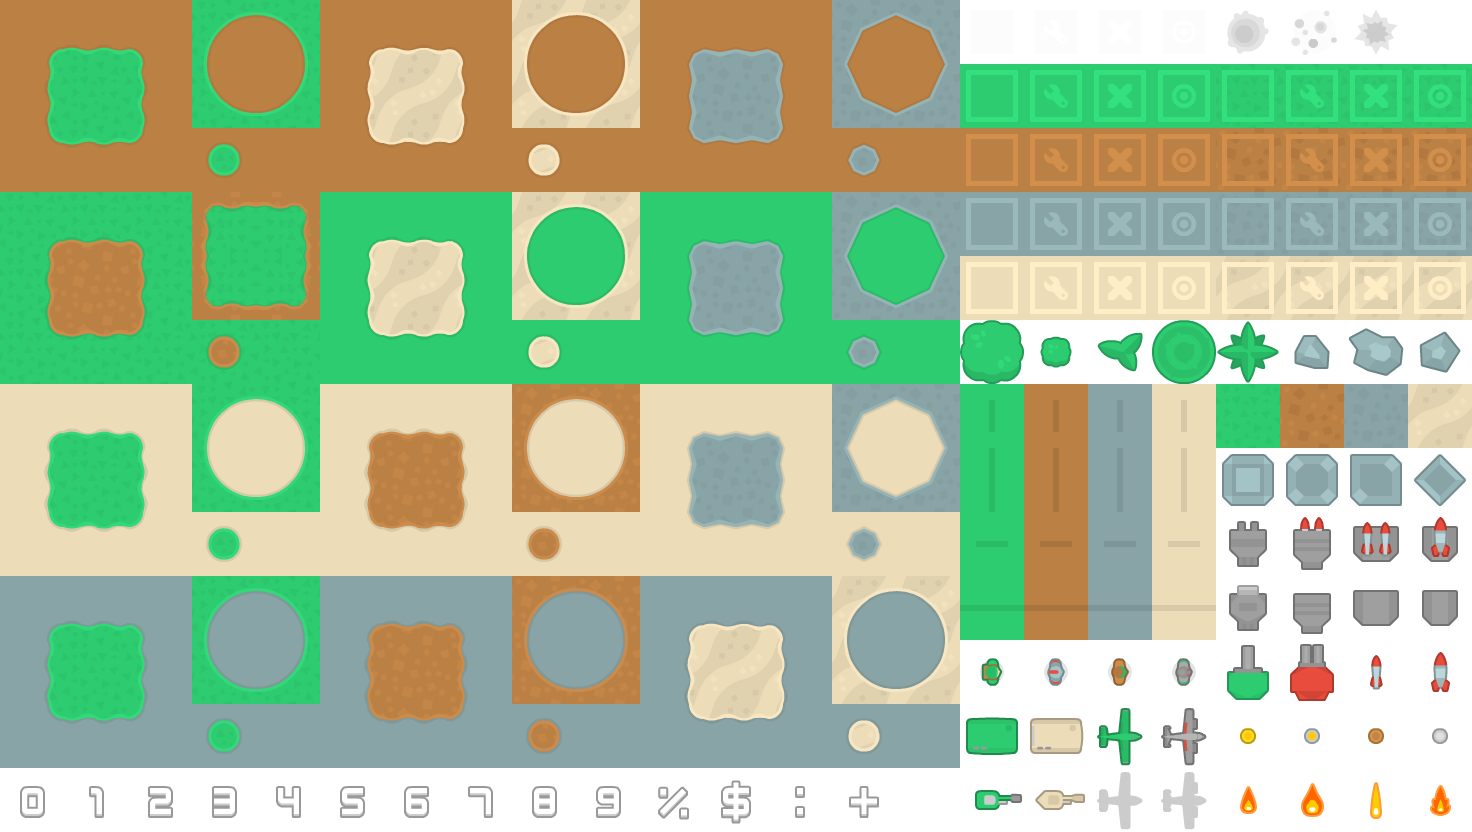
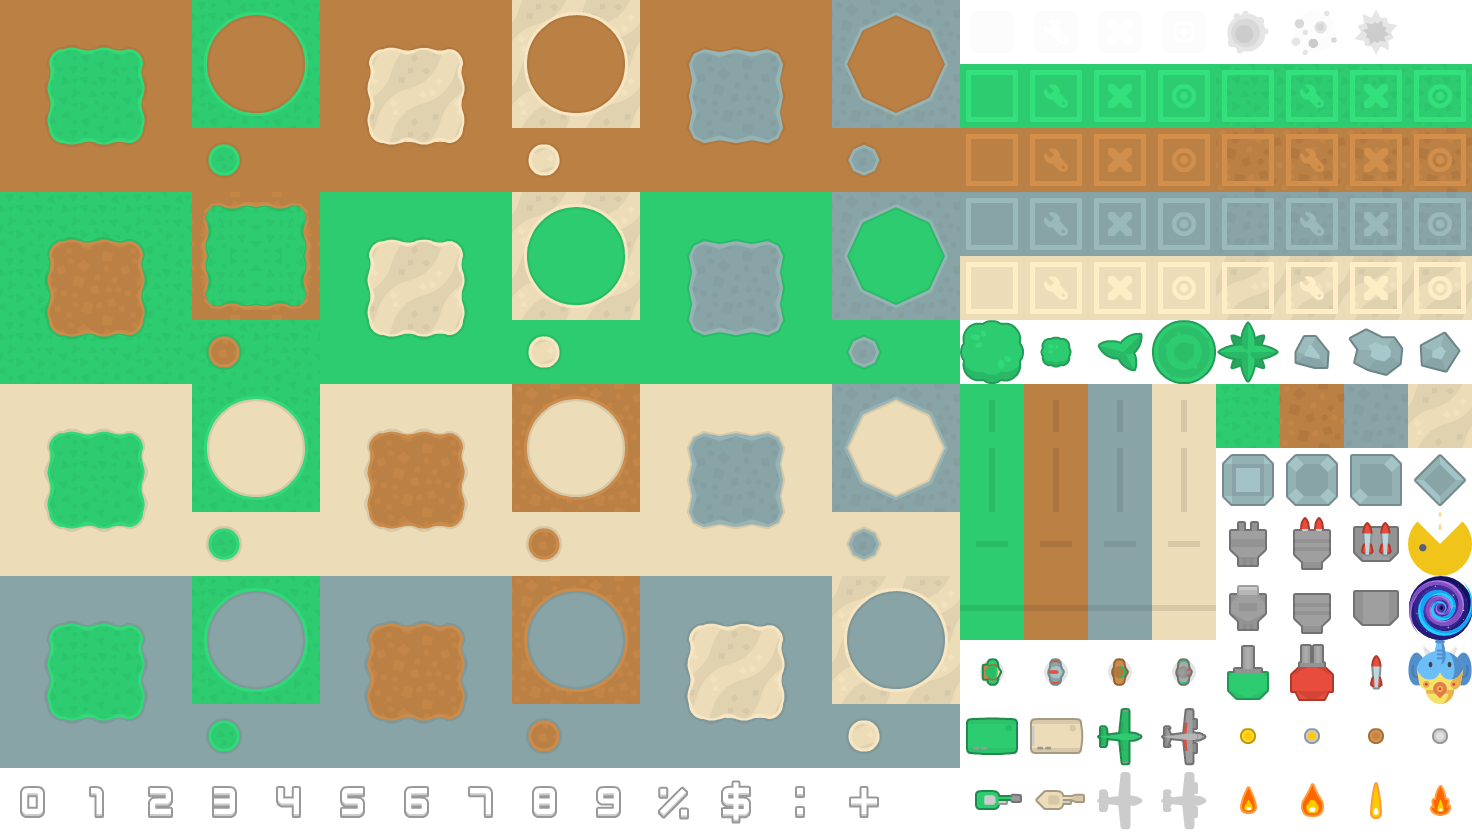
upgrade tower

Changed region(s): [[0.9375, 0.625, 1.0, 0.8438]]

diff --git a/src/mrmathami/thegame/drawer/MachineGunTowerDrawer.java b/src/mrmathami/thegame/drawer/MachineGunTowerDrawer.java
@@ -14,12 +14,37 @@ import javax.annotation.Nonnull;
 public final class MachineGunTowerDrawer implements EntityDrawer {
 	@Override
 	public void draw(long tickCount, @Nonnull GraphicsContext graphicsContext, @Nonnull GameEntity entity, double screenPosX, double screenPosY, double screenWidth, double screenHeight, double zoom) {
-		Image img = GameDrawer.getSheetImage();
-		int maxTileWidth = (int)Math.round(img.getWidth()/ Config.TILE_SIZE);
-		int maxTileHeight = (int)Math.round(img.getHeight()/Config.TILE_SIZE);
-		PixelReader reader = img.getPixelReader();
+		Image imgSheet = GameDrawer.getSheetImage();
+		Image imgRank = GameDrawer.getRankImage();
+		int maxTileWidth = (int)Math.round(imgSheet.getWidth()/ Config.TILE_SIZE);
+		int maxTileHeight = (int)Math.round(imgSheet.getHeight()/Config.TILE_SIZE);
+		PixelReader reader = imgSheet.getPixelReader();
 
-		WritableImage newImage = new WritableImage(reader, (((MachineGunTower)entity).getGID() - 1) % maxTileWidth * (int)(Config.TILE_SIZE), Math.round((((MachineGunTower)entity).getGID() - 1) / maxTileWidth) * (int)(Config.TILE_SIZE), (int)(Config.TILE_SIZE), (int)(Config.TILE_SIZE));
-		((MachineGunTower)entity).rotate(graphicsContext, newImage, screenPosX, screenPosY, ((MachineGunTower)entity).getAngle());
+		WritableImage towerImage = new WritableImage(reader, (((MachineGunTower)entity).getGID() - 1) % maxTileWidth * (int)(Config.TILE_SIZE), Math.round((((MachineGunTower)entity).getGID() - 1) / maxTileWidth) * (int)(Config.TILE_SIZE), (int)(Config.TILE_SIZE), (int)(Config.TILE_SIZE));
+		((MachineGunTower)entity).rotate(graphicsContext, towerImage, screenPosX, screenPosY, ((MachineGunTower)entity).getAngle());
+
+
+		maxTileWidth = (int)Math.round(imgRank.getWidth()/ Config.TILE_SIZE);
+		maxTileHeight = (int)Math.round(imgRank.getHeight()/Config.TILE_SIZE);
+		reader = imgRank.getPixelReader();
+		WritableImage rankImage;
+		switch (((MachineGunTower)entity).getLevel())
+		{
+			case 0:
+				rankImage = new WritableImage(reader, (Config.TOWER_RANK_1_GID - 1) % maxTileWidth * (int)(Config.TILE_SIZE), ((Config.TOWER_RANK_1_GID - 1) / maxTileWidth) * (int)(Config.TILE_SIZE), (int)(Config.TILE_SIZE), (int)(Config.TILE_SIZE));
+				break;
+			case 1:
+				rankImage = new WritableImage(reader, (Config.TOWER_RANK_2_GID - 1) % maxTileWidth * (int)(Config.TILE_SIZE), ((Config.TOWER_RANK_2_GID - 1) / maxTileWidth) * (int)(Config.TILE_SIZE), (int)(Config.TILE_SIZE), (int)(Config.TILE_SIZE));
+				break;
+			case 2:
+				rankImage = new WritableImage(reader, (Config.TOWER_RANK_3_GID - 1) % maxTileWidth * (int)(Config.TILE_SIZE), (Config.TOWER_RANK_3_GID - 1) / maxTileWidth * (int)(Config.TILE_SIZE), (int)(Config.TILE_SIZE), (int)(Config.TILE_SIZE));
+				break;
+			default:
+				throw new IllegalStateException("Unexpected value: " + ((MachineGunTower) entity).getLevel());
+		}
+
+
+		((MachineGunTower)entity).rotate(graphicsContext, rankImage, screenPosX, screenPosY - 32, 90);
+//		graphicsContext.drawImage(rankImage, screenPosX, screenPosY  - 32);
 	}
 }

diff --git a/src/mrmathami/thegame/drawer/RocketLauncherTowerDrawer.java b/src/mrmathami/thegame/drawer/RocketLauncherTowerDrawer.java
@@ -14,12 +14,35 @@ public final class RocketLauncherTowerDrawer implements EntityDrawer {
     @Override
     public void draw(long tickCount, @Nonnull GraphicsContext graphicsContext, @Nonnull GameEntity entity, double screenPosX, double screenPosY, double screenWidth, double screenHeight, double zoom) {
         Image img = GameDrawer.getSheetImage();
+        Image imgRank = GameDrawer.getRankImage();
         int maxTileWidth = (int)Math.round(img.getWidth()/ Config.TILE_SIZE);
         int maxTileHeight = (int)Math.round(img.getHeight()/Config.TILE_SIZE);
         PixelReader reader = img.getPixelReader();
 
         WritableImage rocketLauncherImage = new WritableImage(reader, (((RocketLauncherTower)entity).getGID() - 1) % maxTileWidth * (int)screenWidth, Math.round((((RocketLauncherTower)entity).getGID() - 1) / maxTileWidth) * (int)screenHeight, (int)screenWidth, (int)screenHeight);
         ((RocketLauncherTower)entity).rotate(graphicsContext, rocketLauncherImage, screenPosX, screenPosY, ((RocketLauncherTower)entity).getAngle());
+
+        maxTileWidth = (int)Math.round(imgRank.getWidth()/ Config.TILE_SIZE);
+        maxTileHeight = (int)Math.round(imgRank.getHeight()/Config.TILE_SIZE);
+        reader = imgRank.getPixelReader();
+        WritableImage rankImage;
+        switch (((RocketLauncherTower)entity).getLevel())
+        {
+            case 0:
+                rankImage = new WritableImage(reader, (Config.TOWER_RANK_1_GID - 1) % maxTileWidth * (int)(Config.TILE_SIZE), ((Config.TOWER_RANK_1_GID - 1) / maxTileWidth) * (int)(Config.TILE_SIZE), (int)(Config.TILE_SIZE), (int)(Config.TILE_SIZE));
+                break;
+            case 1:
+                rankImage = new WritableImage(reader, (Config.TOWER_RANK_2_GID - 1) % maxTileWidth * (int)(Config.TILE_SIZE), ((Config.TOWER_RANK_2_GID - 1) / maxTileWidth) * (int)(Config.TILE_SIZE), (int)(Config.TILE_SIZE), (int)(Config.TILE_SIZE));
+                break;
+            case 2:
+                rankImage = new WritableImage(reader, (Config.TOWER_RANK_3_GID - 1) % maxTileWidth * (int)(Config.TILE_SIZE), (Config.TOWER_RANK_3_GID - 1) / maxTileWidth * (int)(Config.TILE_SIZE), (int)(Config.TILE_SIZE), (int)(Config.TILE_SIZE));
+                break;
+            default:
+                throw new IllegalStateException("Unexpected value: " + ((RocketLauncherTower) entity).getLevel());
+        }
+
+
+        ((RocketLauncherTower)entity).rotate(graphicsContext, rankImage, screenPosX, screenPosY - 32, 90);
     }
 }
 

diff --git a/src/mrmathami/thegame/drawer/NormalTowerDrawer.java b/src/mrmathami/thegame/drawer/NormalTowerDrawer.java
@@ -14,12 +14,35 @@ public final class NormalTowerDrawer implements EntityDrawer {
 	@Override
 	public void draw(long tickCount, @Nonnull GraphicsContext graphicsContext, @Nonnull GameEntity entity, double screenPosX, double screenPosY, double screenWidth, double screenHeight, double zoom) {
 		Image img = GameDrawer.getSheetImage();
+		Image imgRank = GameDrawer.getRankImage();
 		int maxTileWidth = (int)Math.round(img.getWidth()/ Config.TILE_SIZE);
 		int maxTileHeight = (int)Math.round(img.getHeight()/Config.TILE_SIZE);
 		PixelReader reader = img.getPixelReader();
 
 		WritableImage towerImage = new WritableImage(reader, (int)((((NormalTower)entity).getGID() - 1) % maxTileWidth * Config.TILE_SIZE), (int)(Math.round((((NormalTower)entity).getGID() - 1) / maxTileWidth) * Config.TILE_SIZE), (int)(Config.TILE_SIZE), (int)(Config.TILE_SIZE));
 		((NormalTower)entity).rotate(graphicsContext, towerImage, screenPosX, screenPosY, ((NormalTower)entity).getAngle());
+
+		maxTileWidth = (int)Math.round(imgRank.getWidth()/ Config.TILE_SIZE);
+		maxTileHeight = (int)Math.round(imgRank.getHeight()/Config.TILE_SIZE);
+		reader = imgRank.getPixelReader();
+		WritableImage rankImage;
+		switch (((NormalTower)entity).getLevel())
+		{
+			case 0:
+				rankImage = new WritableImage(reader, (Config.TOWER_RANK_1_GID - 1) % maxTileWidth * (int)(Config.TILE_SIZE), ((Config.TOWER_RANK_1_GID - 1) / maxTileWidth) * (int)(Config.TILE_SIZE), (int)(Config.TILE_SIZE), (int)(Config.TILE_SIZE));
+				break;
+			case 1:
+				rankImage = new WritableImage(reader, (Config.TOWER_RANK_2_GID - 1) % maxTileWidth * (int)(Config.TILE_SIZE), ((Config.TOWER_RANK_2_GID - 1) / maxTileWidth) * (int)(Config.TILE_SIZE), (int)(Config.TILE_SIZE), (int)(Config.TILE_SIZE));
+				break;
+			case 2:
+				rankImage = new WritableImage(reader, (Config.TOWER_RANK_3_GID - 1) % maxTileWidth * (int)(Config.TILE_SIZE), (Config.TOWER_RANK_3_GID - 1) / maxTileWidth * (int)(Config.TILE_SIZE), (int)(Config.TILE_SIZE), (int)(Config.TILE_SIZE));
+				break;
+			default:
+				throw new IllegalStateException("Unexpected value: " + ((NormalTower) entity).getLevel());
+		}
+
+
+		((NormalTower)entity).rotate(graphicsContext, rankImage, screenPosX, screenPosY - 32, 90);
 	}
 
 }

diff --git a/src/mrmathami/thegame/Config.java b/src/mrmathami/thegame/Config.java
@@ -88,20 +88,20 @@ public final class Config {
 	public static final long NORMAL_TOWER_SPEED = 10;
 	public static final double NORMAL_TOWER_RANGE = 2.0;
 	public static final int NORMAL_TOWER_LEVEL1_GID = 204;
-	public static final int NORMAL_TOWER_LEVEL2_GID = 0;
-	public static final int NORMAL_TOWER_LEVEL3_GID = 0;
+	public static final int NORMAL_TOWER_LEVEL2_GID = 227;
+	public static final int NORMAL_TOWER_LEVEL3_GID = 207;
 
 	public static final long MACHINE_GUN_TOWER_SPEED = 5;
 	public static final double MACHINE_GUN_TOWER_RANGE = 4.0;
 	public static final int MACHINE_GUN_TOWER_LEVEL1_GID = 250;
 	public static final int MACHINE_GUN_TOWER_LEVEL2_GID = 251;
-	public static final int MACHINE_GUN_TOWER_LEVEL3_GID = 251;
+	public static final int MACHINE_GUN_TOWER_LEVEL3_GID = 253;
 
 	public static final long ROCKET_TOWER_SPEED = 20;
 	public static final double ROCKET_TOWER_RANGE = 4.0;
 	public static final int ROCKET_TOWER_LEVEL1_GID = 205;
 	public static final int ROCKET_TOWER_LEVEL2_GID = 206;
-	public static final int ROCKET_TOWER_LEVEL3_GID = 206;
+	public static final int ROCKET_TOWER_LEVEL3_GID = 230;
 
 	public static final int LOCKED_GID = 291;
 	//endregion
@@ -190,6 +190,12 @@ public final class Config {
 
 	public static final double FIRE1_WIDTH = 12.0;
 	public static final double FIRE1_HEIGHT = 24.0;
+
+	//region star rank
+	public static final int TOWER_RANK_1_GID = 36;
+	public static final int TOWER_RANK_2_GID = 37;
+	public static final int TOWER_RANK_3_GID = 38;
+	//endregion
 
 	private Config() {
 	}

diff --git a/src/mrmathami/thegame/entity/tile/tower/AbstractTower.java b/src/mrmathami/thegame/entity/tile/tower/AbstractTower.java
@@ -16,13 +16,14 @@ import javax.annotation.Nonnull;
 import java.util.Collection;
 
 public abstract class AbstractTower<E extends AbstractBullet, T extends AbstractEnemy> extends AbstractTile implements UpdatableEntity, RotatableEntity {
-	private final double range;
-	private final long speed;
+	private double range;
+	private long speed;
 	private double angle;
 	private double defaultAngle;
 	protected int GID;
 	private Class<T> target;
 	private long tickDown;
+	private int level;
 
 	protected AbstractTower(long createdTick, long posX, long posY, double range, long speed, double angle, int GID, Class<T> target) {
 		super(createdTick, posX, posY, 1L, 1L, GID);
@@ -33,6 +34,7 @@ public abstract class AbstractTower<E extends AbstractBullet, T extends Abstract
 		this.tickDown = 0;
 		this.GID = GID;
 		this.target = target;
+		this.level = 0;
 	}
 
 	@Override
@@ -90,4 +92,30 @@ public abstract class AbstractTower<E extends AbstractBullet, T extends Abstract
 	public double getAngle() {
 		return angle;
 	}
+
+	public int getLevel() {
+		return level;
+	}
+
+	public double getRange() {
+		return range;
+	}
+
+	public void setRange(double range) {
+		this.range = range;
+	}
+
+	public long getSpeed() {
+		return speed;
+	}
+
+	public void setSpeed(long speed) {
+		this.speed = speed;
+	}
+
+	public void setLevel(int level) {
+		this.level = level;
+	}
+
+	public abstract boolean upgrade();
 }

diff --git a/src/mrmathami/thegame/entity/tile/tower/NormalTower.java b/src/mrmathami/thegame/entity/tile/tower/NormalTower.java
@@ -8,6 +8,7 @@ import mrmathami.thegame.entity.enemy.NormalAircraft;
 import javax.annotation.Nonnull;
 
 public final class NormalTower extends AbstractTower<NormalBullet, NormalAircraft> {
+	public int[] GID = new int[] {Config.NORMAL_TOWER_LEVEL1_GID, Config.NORMAL_TOWER_LEVEL2_GID, Config.NORMAL_TOWER_LEVEL3_GID};
 	public NormalTower(long createdTick, long posX, long posY, double angle) {
 		super(createdTick, posX, posY, Config.NORMAL_TOWER_RANGE, Config.NORMAL_TOWER_SPEED, angle, Config.NORMAL_TOWER_LEVEL1_GID, NormalAircraft.class);
 	}
@@ -17,4 +18,18 @@ public final class NormalTower extends AbstractTower<NormalBullet, NormalAircraf
 	protected final NormalBullet doSpawn(long createdTick, double posX, double posY, double deltaX, double deltaY, AbstractEnemy enemyTarget) {
 		return new NormalBullet(createdTick, posX - Config.NORMAL_BULLET_WIDTH/(2*Config.TILE_SIZE), posY - Config.NORMAL_BULLET_HEIGHT/(2*Config.TILE_SIZE), deltaX, deltaY, enemyTarget);
 	}
+
+	@Override
+	public boolean upgrade() {
+		if (getLevel() == 2) return false;
+		else
+		{
+			setLevel(getLevel() + 1);
+			setRange(getRange() + 1);
+			setSpeed((long) (getSpeed()/Math.pow(2, getLevel())));
+			setGID(GID[getLevel()]);
+			return true;
+		}
+	}
+
 }

diff --git a/src/mrmathami/thegame/entity/tile/tower/MachineGunTower.java b/src/mrmathami/thegame/entity/tile/tower/MachineGunTower.java
@@ -9,6 +9,7 @@ import mrmathami.thegame.entity.enemy.Tanker;
 import javax.annotation.Nonnull;
 
 public final class MachineGunTower extends AbstractTower<MachineGunBullet, Tanker> {
+    public int[] GID = new int[] {Config.MACHINE_GUN_TOWER_LEVEL1_GID, Config.MACHINE_GUN_TOWER_LEVEL2_GID, Config.MACHINE_GUN_TOWER_LEVEL3_GID};
     public MachineGunTower(long createdTick, long posX, long posY, double angle) {
         super(createdTick, posX, posY, Config.MACHINE_GUN_TOWER_RANGE, Config.MACHINE_GUN_TOWER_SPEED, angle, Config.MACHINE_GUN_TOWER_LEVEL1_GID, Tanker.class);
     }
@@ -19,6 +20,17 @@ public final class MachineGunTower extends AbstractTower<MachineGunBullet, Tanke
         return new MachineGunBullet(createdTick, posX - Config.MACHINE_GUN_BULLET_WIDTH/(2*Config.TILE_SIZE), posY - Config.MACHINE_GUN_BULLET_HEIGHT/(2*Config.TILE_SIZE), deltaX, deltaY, enemyTarget);
     }
 
+    @Override
+    public boolean upgrade() {
+        if (getLevel() == 2) return false;
+        else
+        {
+            setLevel(getLevel() + 1);
+            setRange(getRange() + 1);
+            setSpeed((long) (getSpeed()/Math.pow(2, getLevel())));
+            setGID(GID[getLevel()]);
+            return true;
+        }
 
-
+    }
 }

diff --git a/src/mrmathami/thegame/entity/tile/tower/RocketLauncherTower.java b/src/mrmathami/thegame/entity/tile/tower/RocketLauncherTower.java
@@ -9,6 +9,7 @@ import mrmathami.thegame.entity.enemy.BigAircraft;
 import javax.annotation.Nonnull;
 
 public final class RocketLauncherTower extends AbstractTower<RocketBullet, BigAircraft> {
+    public int[] GID = new int[] {Config.ROCKET_TOWER_LEVEL1_GID, Config.ROCKET_TOWER_LEVEL2_GID, Config.ROCKET_TOWER_LEVEL3_GID};
     public RocketLauncherTower(long createdTick, long posX, long posY, double angle) {
         super(createdTick, posX, posY, Config.ROCKET_TOWER_RANGE, Config.ROCKET_TOWER_SPEED, angle, Config.ROCKET_TOWER_LEVEL1_GID, BigAircraft.class);
     }
@@ -19,6 +20,17 @@ public final class RocketLauncherTower extends AbstractTower<RocketBullet, BigAi
         return new RocketBullet(createdTick, posX - Config.ROCKET_BULLET_WIDTH/(2*Config.TILE_SIZE), posY - Config.ROCKET_BULLET_HEIGHT/(2*Config.TILE_SIZE), deltaX, deltaY, enemyTarget);
     }
 
-
+    @Override
+    public boolean upgrade() {
+        if (getLevel() == 2) return false;
+        else
+        {
+            setLevel(getLevel() + 1);
+            setRange(getRange() + 1);
+            setSpeed((long) (getSpeed()/Math.pow(2, getLevel())));
+            setGID(GID[getLevel()]);
+            return true;
+        }
+    }
 
 }

diff --git a/src/mrmathami/thegame/drawer/GameDrawer.java b/src/mrmathami/thegame/drawer/GameDrawer.java
@@ -116,6 +116,9 @@ public final class GameDrawer {
 	private TowerPlacing towerPlacing;
 	private static Image sheetImage;
 	private static Image buttonImage;
+	private static Image rankImage;
+	private static Image ultimateNormalTower;
+
 	private transient double fieldStartPosX = Float.NaN;
 	private transient double fieldStartPosY = Float.NaN;
 	private transient double fieldZoom = Float.NaN;
@@ -126,6 +129,8 @@ public final class GameDrawer {
 		this.towerPlacing = towerPlacing;
 		this.sheetImage = new Image(getClass().getResourceAsStream(sheetImage));
 		this.buttonImage = new Image(getClass().getResourceAsStream(buttonImage));
+		this.rankImage = new Image(getClass().getResourceAsStream("/stage/default_gold.png"));
+		this.ultimateNormalTower = new Image(getClass().getResourceAsStream("/stage/pacman.png"));
 		this.gameUI = gameUI;
 	}
 
@@ -284,5 +289,9 @@ public final class GameDrawer {
 
 	public static Image getButtonImage () {
 		return buttonImage;
+	}
+
+	public static Image getRankImage() {
+		return rankImage;
 	}
 }
